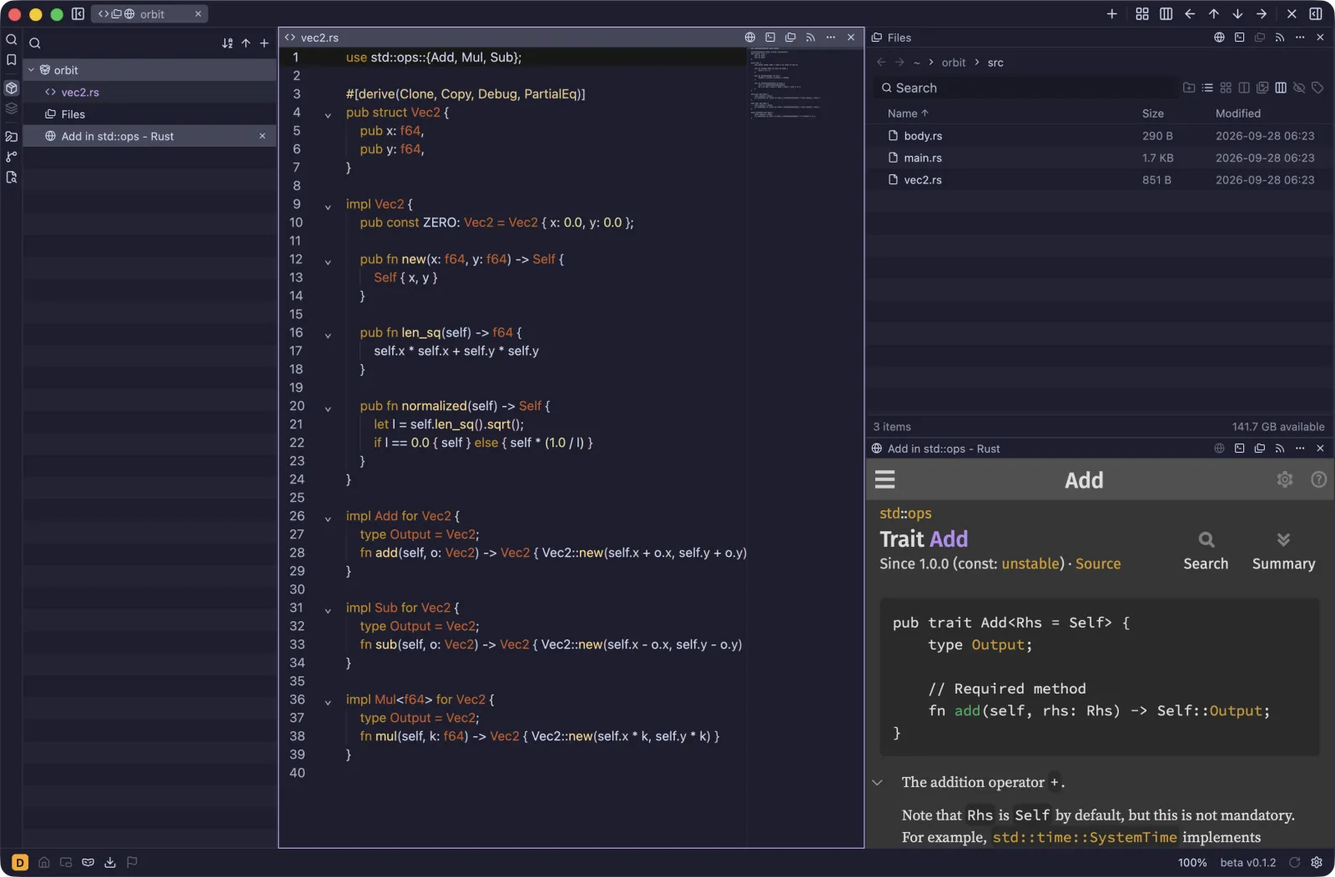
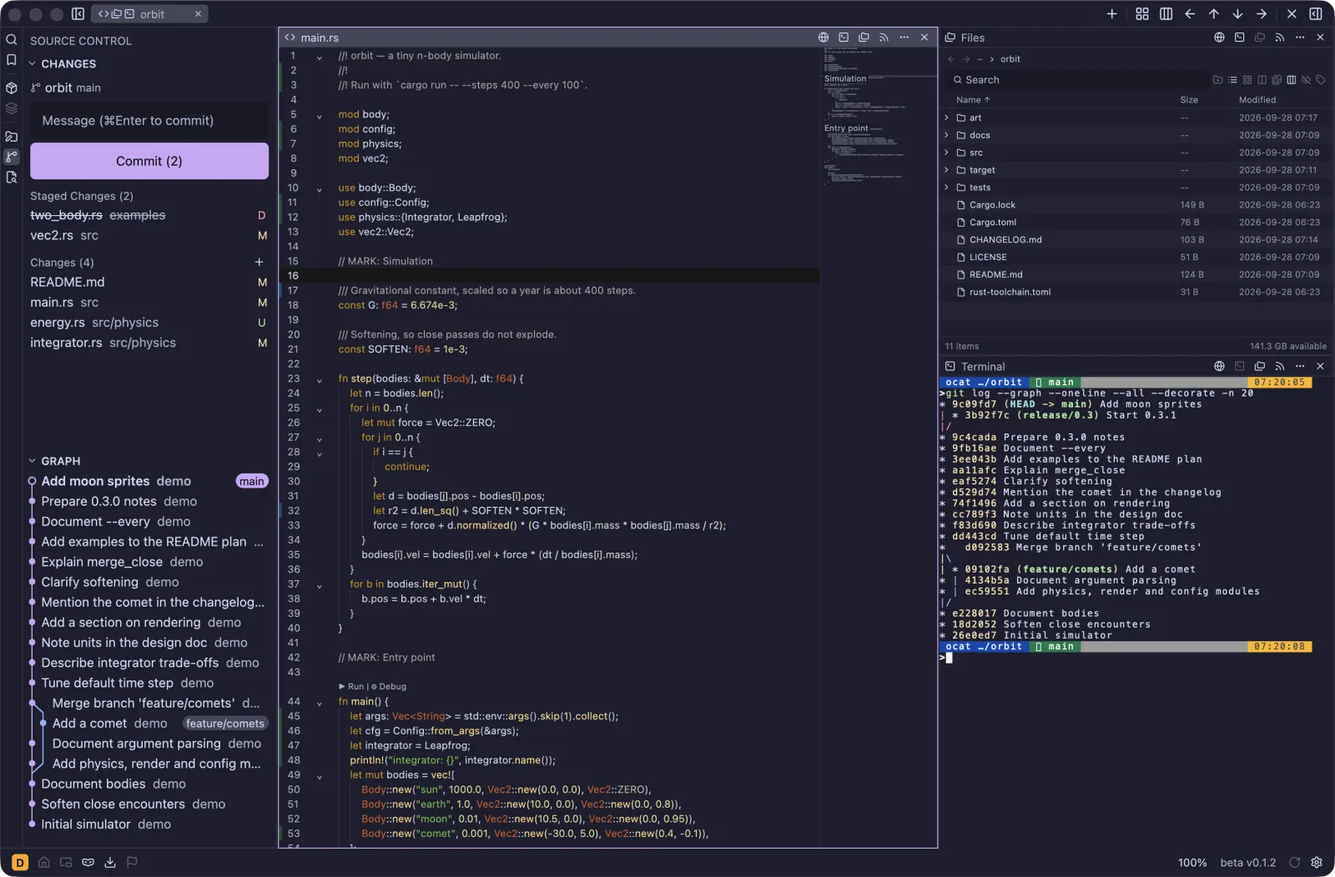
指摘を反映: 英語に日本語を混ぜない・画像と枠の間を空ける・枠の色を 1 つに・スクショを撮り直す・Zero Context Switching
- 英語のときは見出しの日本語を隠す（日英を並べるのは日本語のときだけ）
- 窓の丸い角が四角い枠にぶつからないよう、枠と画像の間に余白
- 枠線の色を --rule 1 色に統一（濃淡・生成り・橙の枠をやめた）
- スクショを撮り直し: 中身を増やしたデモで空白を減らし、エディタ・ターミナルは 80%、
  ブラウザは Wikipedia、サイドバーはファイルツリー / ソース管理で埋める
- 表紙に謳い文句「Zero Context Switching」（訳さない）と一言、奥付にも。<title> と og も

diff --git a/index.html b/index.html
@@ -5,12 +5,12 @@
 <meta charset="utf-8">
 <meta name="viewport" content="width=device-width, initial-scale=1">
 <meta name="color-scheme" content="dark">
-<title>dopamine — a macOS browser with panes, a terminal, files and an editor</title>
-<meta name="description" content="A macOS browser that is also a terminal, a file manager and a code editor — split one window into all of them and keep them on screen together.">
+<title>dopamine — Zero Context Switching</title>
+<meta name="description" content="Zero Context Switching. A browser, a terminal, a file manager and a code editor in one macOS window. Split it into panes, keep everything on screen, and stop switching apps.">
 <link rel="icon" href="./assets/favicon.png" sizes="64x64">
 <link rel="apple-touch-icon" href="./assets/apple-touch-icon.png">
-<meta property="og:title" content="dopamine">
-<meta property="og:description" content="A macOS browser that is also a terminal, a file manager and a code editor — split one window into all of them and keep them on screen together.">
+<meta property="og:title" content="dopamine — Zero Context Switching">
+<meta property="og:description" content="A browser, a terminal, a file manager and a code editor in one macOS window. Split it into panes, keep everything on screen, and stop switching apps.">
 <meta property="og:image" content="https://route23.github.io/dopamine-releases/assets/shots/workspace.webp">
 <meta property="og:url" content="https://route23.github.io/dopamine-releases/">
 <meta property="og:type" content="website">
@@ -35,7 +35,9 @@
     <img class="mast__icon" src="./assets/dopamine.png" width="512" height="512" alt="">
     <h1 class="wordmark">dopamine</h1>
     <p class="mast__url">route23.github.io/dopamine-releases</p>
-    <p class="mast__tagline" data-i18n="tagline">A macOS browser that is also a terminal, a file manager and a code editor — split one window into all of them and keep them on screen together.</p>
+    <p class="slogan">Zero Context Switching</p>
+    <p class="slogan__sub" data-i18n="slogan.sub">Everything you work with, side by side, in one window.</p>
+    <p class="mast__tagline" data-i18n="tagline">A browser, a terminal, a file manager and a code editor in one macOS window. Split it into panes, keep everything on screen, and stop switching apps.</p>
     <p class="mast__spec" data-i18n="spec">Apple Silicon · macOS 14+ · 33 themes · 12 languages · no account</p>
     <!--
       ダウンロードリンクは **ここに書いてある状態で既に動く**。
@@ -52,8 +54,8 @@
   <section id="screens" class="block">
     <h2 class="bi"><span lang="ja">画面</span><span class="bi__sep">—</span><span lang="en">SCREENS</span></h2>
     <p class="lead" data-i18n="screens.lead">Every picture below is the app as it ships — no mock-ups.</p>
-    <figure class="shot shot--big"><button type="button" class="shot__zoom" data-full="./assets/shots/workspace.webp" aria-label="Enlarge"><img src="./assets/shots/workspace.webp" width="2400" height="1577" loading="eager" decoding="async" alt="One window, four panes: a web page, the editor with git marks and a Run lens, a terminal, and Files." data-i18n-alt="shot.workspace"></button><figcaption><span data-i18n="shot.workspace">One window, four panes: a web page, the editor with git marks and a Run lens, a terminal, and Files.</span></figcaption></figure>
-    <div class="shots"><figure class="shot"><button type="button" class="shot__zoom" data-full="./assets/shots/source-control.webp" aria-label="Enlarge"><img src="./assets/shots/source-control.webp" width="2400" height="1577" loading="lazy" decoding="async" alt="Source control in the sidebar: changes, a commit box, and the branch graph." data-i18n-alt="shot.source-control"></button><figcaption><span data-i18n="shot.source-control">Source control in the sidebar: changes, a commit box, and the branch graph.</span></figcaption></figure><figure class="shot"><button type="button" class="shot__zoom" data-full="./assets/shots/diff.webp" aria-label="Enlarge"><img src="./assets/shots/diff.webp" width="2400" height="1577" loading="lazy" decoding="async" alt="Diff pane, side by side, with the file’s line numbers and unchanged lines folded away." data-i18n-alt="shot.diff"></button><figcaption><span data-i18n="shot.diff">Diff pane, side by side, with the file’s line numbers and unchanged lines folded away.</span></figcaption></figure><figure class="shot"><button type="button" class="shot__zoom" data-full="./assets/shots/files-rss.webp" aria-label="Enlarge"><img src="./assets/shots/files-rss.webp" width="2400" height="1577" loading="lazy" decoding="async" alt="Files in gallery view next to an RSS pane." data-i18n-alt="shot.files-rss"></button><figcaption><span data-i18n="shot.files-rss">Files in gallery view next to an RSS pane.</span></figcaption></figure><figure class="shot"><button type="button" class="shot__zoom" data-full="./assets/shots/settings-themes.webp" aria-label="Enlarge"><img src="./assets/shots/settings-themes.webp" width="1640" height="1200" loading="lazy" decoding="async" alt="Settings live in their own window. 33 themes, picked from pictures." data-i18n-alt="shot.settings-themes"></button><figcaption><span data-i18n="shot.settings-themes">Settings live in their own window. 33 themes, picked from pictures.</span></figcaption></figure><figure class="shot"><button type="button" class="shot__zoom" data-full="./assets/shots/settings-editor.webp" aria-label="Enlarge"><img src="./assets/shots/settings-editor.webp" width="1640" height="1200" loading="lazy" decoding="async" alt="Every setting is a card with its settings.json key and a live sample." data-i18n-alt="shot.settings-editor"></button><figcaption><span data-i18n="shot.settings-editor">Every setting is a card with its settings.json key and a live sample.</span></figcaption></figure><figure class="shot"><button type="button" class="shot__zoom" data-full="./assets/shots/settings-filter.webp" aria-label="Enlarge"><img src="./assets/shots/settings-filter.webp" width="1640" height="1200" loading="lazy" decoding="async" alt="Filter across every section; pictures instead of dropdowns." data-i18n-alt="shot.settings-filter"></button><figcaption><span data-i18n="shot.settings-filter">Filter across every section; pictures instead of dropdowns.</span></figcaption></figure></div>
+    <figure class="shot shot--big"><button type="button" class="shot__zoom" data-full="./assets/shots/workspace.webp" aria-label="Enlarge"><img src="./assets/shots/workspace.webp" width="2400" height="1577" loading="eager" decoding="async" alt="One window, no switching: the file tree, a web page, a terminal, the editor with git marks and a Run lens, and Files." data-i18n-alt="shot.workspace"></button><figcaption><span data-i18n="shot.workspace">One window, no switching: the file tree, a web page, a terminal, the editor with git marks and a Run lens, and Files.</span></figcaption></figure>
+    <div class="shots"><figure class="shot"><button type="button" class="shot__zoom" data-full="./assets/shots/source-control.webp" aria-label="Enlarge"><img src="./assets/shots/source-control.webp" width="2400" height="1577" loading="lazy" decoding="async" alt="Source control in the sidebar: staged and unstaged changes, a commit box, and the branch graph — next to the terminal’s git log." data-i18n-alt="shot.source-control"></button><figcaption><span data-i18n="shot.source-control">Source control in the sidebar: staged and unstaged changes, a commit box, and the branch graph — next to the terminal’s git log.</span></figcaption></figure><figure class="shot"><button type="button" class="shot__zoom" data-full="./assets/shots/diff.webp" aria-label="Enlarge"><img src="./assets/shots/diff.webp" width="2400" height="1577" loading="lazy" decoding="async" alt="Diff pane, side by side: the file’s line numbers, word-level changes, and unchanged lines folded away." data-i18n-alt="shot.diff"></button><figcaption><span data-i18n="shot.diff">Diff pane, side by side: the file’s line numbers, word-level changes, and unchanged lines folded away.</span></figcaption></figure><figure class="shot"><button type="button" class="shot__zoom" data-full="./assets/shots/files-rss.webp" aria-label="Enlarge"><img src="./assets/shots/files-rss.webp" width="2400" height="1577" loading="lazy" decoding="async" alt="The file tree, Files in gallery view, and an RSS pane reading two feeds." data-i18n-alt="shot.files-rss"></button><figcaption><span data-i18n="shot.files-rss">The file tree, Files in gallery view, and an RSS pane reading two feeds.</span></figcaption></figure><figure class="shot"><button type="button" class="shot__zoom" data-full="./assets/shots/settings-themes.webp" aria-label="Enlarge"><img src="./assets/shots/settings-themes.webp" width="1640" height="1200" loading="lazy" decoding="async" alt="Settings live in their own window. 33 themes, picked from pictures." data-i18n-alt="shot.settings-themes"></button><figcaption><span data-i18n="shot.settings-themes">Settings live in their own window. 33 themes, picked from pictures.</span></figcaption></figure><figure class="shot"><button type="button" class="shot__zoom" data-full="./assets/shots/settings-editor.webp" aria-label="Enlarge"><img src="./assets/shots/settings-editor.webp" width="1640" height="1200" loading="lazy" decoding="async" alt="Every setting is a card with its settings.json key and a live sample." data-i18n-alt="shot.settings-editor"></button><figcaption><span data-i18n="shot.settings-editor">Every setting is a card with its settings.json key and a live sample.</span></figcaption></figure><figure class="shot"><button type="button" class="shot__zoom" data-full="./assets/shots/settings-filter.webp" aria-label="Enlarge"><img src="./assets/shots/settings-filter.webp" width="1640" height="1200" loading="lazy" decoding="async" alt="Filter across every section; pictures instead of dropdowns." data-i18n-alt="shot.settings-filter"></button><figcaption><span data-i18n="shot.settings-filter">Filter across every section; pictures instead of dropdowns.</span></figcaption></figure></div>
     <h3 class="bi bi--sub"><span lang="ja">テーマ</span><span class="bi__sep">—</span><span lang="en">THEMES</span></h3>
     <div class="themes"><figure class="theme"><button type="button" class="shot__zoom" data-full="./assets/shots/theme-catppuccin-mocha.webp" aria-label="Enlarge"><img src="./assets/shots/theme-catppuccin-mocha.webp" width="1600" height="1051" loading="lazy" decoding="async" alt="Catppuccin Mocha"></button><figcaption>Catppuccin Mocha</figcaption></figure><figure class="theme"><button type="button" class="shot__zoom" data-full="./assets/shots/theme-everforest-dark.webp" aria-label="Enlarge"><img src="./assets/shots/theme-everforest-dark.webp" width="1600" height="1051" loading="lazy" decoding="async" alt="Everforest Dark"></button><figcaption>Everforest Dark</figcaption></figure><figure class="theme"><button type="button" class="shot__zoom" data-full="./assets/shots/theme-monokai-pro.webp" aria-label="Enlarge"><img src="./assets/shots/theme-monokai-pro.webp" width="1600" height="1051" loading="lazy" decoding="async" alt="Monokai Pro"></button><figcaption>Monokai Pro</figcaption></figure><figure class="theme"><button type="button" class="shot__zoom" data-full="./assets/shots/theme-solarized-light.webp" aria-label="Enlarge"><img src="./assets/shots/theme-solarized-light.webp" width="1600" height="1051" loading="lazy" decoding="async" alt="Solarized Light"></button><figcaption>Solarized Light</figcaption></figure></div>
   </section>
@@ -93,6 +95,7 @@
 
   <footer class="colophon">
     <p class="colophon__mark">dopamine <span>N°</span> 0.1</p>
+    <p class="colophon__slogan">Zero Context Switching</p>
     <div class="colophon__row">
       <div class="barcode" aria-hidden="true"><span></span><code>3 0 1 2 3 0 0 0 5 1 3</code></div>
       <nav class="colophon__links">

diff --git a/assets/styles.css b/assets/styles.css
@@ -23,9 +23,9 @@
   /* 本体の palette.rs が明記しているとおり **黒**。白ではない。 */
   --on-accent:  #000000;
 
-  /* 罫線は生成りを薄めたもの（Rhodia の白い罫の代わり）。 */
-  --rule: color-mix(in srgb, var(--fg) 55%, transparent);
-  --rule-soft: color-mix(in srgb, var(--fg) 18%, transparent);
+  /* 罫線は**この 1 色だけ**（生成りを薄めたもの / Rhodia の白い罫の代わり）。
+   * 枠・表の罫・区切りは全部これ。濃淡を混ぜない。 */
+  --rule: color-mix(in srgb, var(--fg) 40%, transparent);
   /* 方眼。背景の飾りにだけ使う。 */
   --grid: color-mix(in srgb, var(--fg) 4%, transparent);
 
@@ -104,7 +104,16 @@ a:hover { text-decoration-color: var(--accent); }
   text-transform: uppercase;
 }
 .mast__url { margin: 6px 0 0; font: 500 clamp(15px, 2.2vw, 19px)/1.3 var(--display); letter-spacing: .02em; }
-.mast__tagline { max-width: 44em; margin: 34px auto 0; font-size: clamp(16px, 2vw, 19px); }
+/* 謳い文句（Zero Context Switching）。**訳さない** —— 名前と同じく英語のまま出す。 */
+.slogan {
+  margin: 34px 0 0;
+  font: 800 clamp(26px, 4.6vw, 46px)/1.1 var(--display);
+  letter-spacing: .08em;
+  text-transform: uppercase;
+  color: var(--accent);
+}
+.slogan__sub { margin: 10px 0 0; font: 600 clamp(15px, 1.9vw, 18px)/1.4 var(--display); letter-spacing: .04em; }
+.mast__tagline { max-width: 44em; margin: 22px auto 0; font-size: clamp(16px, 2vw, 18px); color: var(--muted-fg); }
 .mast__spec {
   margin: 10px 0 0;
   font: 600 13px/1.5 var(--display);
@@ -121,7 +130,7 @@ html[lang="ja"] .mast__spec { letter-spacing: .06em; }
   right: clamp(0px, 6vw, 80px);
   width: 78px;
   height: 78px;
-  border: 2px solid var(--fg);
+  border: 2px solid var(--rule);
   border-radius: 50%;
   display: grid;
   place-content: center;
@@ -164,6 +173,8 @@ html[lang="ja"] .btn { letter-spacing: .04em; }
   text-transform: uppercase;
 }
 .bi__sep { margin-inline: .5em; color: var(--muted-fg); }
+/* 日英を並べるのは**日本語のときだけ**。英語のページに日本語を混ぜない（JS 無効でも英語だけ）。 */
+html:not([lang="ja"]) .bi > [lang="ja"], html:not([lang="ja"]) .bi > .bi__sep { display: none; }
 .bi--sub { font-size: 17px; margin-top: 56px; }
 
 .lead { text-align: center; color: var(--muted-fg); margin: 0 0 28px; }
@@ -179,12 +190,14 @@ html[lang="ja"] .btn { letter-spacing: .04em; }
 /* ── 画面 ── */
 
 .shot, .theme { margin: 0; }
+/* 窓の角は丸い（macOS）ので、**枠と画像の間を空ける** —— 四角い枠に丸い角が
+ * ぶつかると、欠けたように見える。 */
 .shot__zoom {
   display: block;
   width: 100%;
-  padding: 0;
+  padding: clamp(8px, 1.4vw, 14px);
   border: 1px solid var(--rule);
-  background: var(--recessed);
+  background: var(--window-bg);
   cursor: zoom-in;
 }
 .shot__zoom img { display: block; width: 100%; }
@@ -199,6 +212,7 @@ html[lang="ja"] .btn { letter-spacing: .04em; }
 }
 
 .themes { display: grid; grid-template-columns: repeat(4, 1fr); gap: 16px; }
+.themes .shot__zoom { padding: 8px; }
 @media (max-width: 760px) { .themes { grid-template-columns: repeat(2, 1fr); } }
 .theme figcaption {
   margin-top: 8px;
@@ -224,7 +238,7 @@ html[lang="ja"] .btn { letter-spacing: .04em; }
   padding: 12px;
   border-left: 1px solid var(--rule);
   border-right: 1px solid var(--rule);
-  border-top: 1px solid var(--rule-soft);
+  border-top: 1px solid var(--rule);
 }
 .spec .no { width: 3.4em; font: 800 16px/1.4 var(--display); text-align: center; }
 .spec .area { width: 12em; font: 700 15px/1.4 var(--display); letter-spacing: .04em; text-transform: uppercase; }
@@ -260,11 +274,11 @@ html[lang="ja"] .box h3 { letter-spacing: .02em; }
 .small { font-size: 14px; color: var(--muted-fg); }
 .box .small { margin: 10px 0 0; }
 
-.cmd { display: flex; align-items: stretch; border: 1px solid var(--rule-soft); background: var(--recessed); }
+.cmd { display: flex; align-items: stretch; border: 1px solid var(--rule); background: var(--recessed); }
 .cmd pre { margin: 0; padding: 12px 14px; flex: 1; font: 14px/1.5 var(--mono); overflow-wrap: anywhere; white-space: pre-wrap; }
 .cmd__copy {
   border: 0;
-  border-left: 1px solid var(--rule-soft);
+  border-left: 1px solid var(--rule);
   background: transparent;
   color: var(--fg);
   font: 600 12px/1 var(--display);
@@ -276,7 +290,7 @@ html[lang="ja"] .box h3 { letter-spacing: .02em; }
 .cmd__copy:hover { color: var(--accent); }
 
 .req { margin-top: 20px; width: 100%; border-collapse: collapse; border: 1px solid var(--rule); background: var(--window-bg); }
-.req td { padding: 10px 12px; border-top: 1px solid var(--rule-soft); }
+.req td { padding: 10px 12px; border-top: 1px solid var(--rule); }
 .req .no { width: 3.4em; text-align: center; font: 800 15px/1 var(--display); border-right: 1px solid var(--rule); }
 
 /* ── 奥付（Rhodia の裏表紙の下端）── */
@@ -305,8 +319,10 @@ html[lang="ja"] .box h3 { letter-spacing: .02em; }
   min-width: 220px;
   background: var(--window-bg);
 }
+.colophon__slogan { margin: -10px 0 22px; font: 700 14px/1 var(--display); letter-spacing: .2em; text-transform: uppercase; color: var(--accent); }
 .colophon__made { margin: 22px 0 0; font: 700 12px/1.4 var(--display); letter-spacing: .16em; text-transform: uppercase; color: var(--muted-fg); }
-html[lang="ja"] .colophon__made { letter-spacing: .06em; }
+html[lang="ja"] .colophon__slogan { margin: -10px 0 22px; font: 700 14px/1 var(--display); letter-spacing: .2em; text-transform: uppercase; color: var(--accent); }
+.colophon__made { letter-spacing: .06em; }
 
 /* ── 拡大 ── */
 
@@ -333,19 +349,19 @@ html[lang="ja"] .colophon__made { letter-spacing: .06em; }
 .sheet--narrow { max-width: 860px; }
 .page-lead { text-align: center; color: var(--muted-fg); margin: 0 0 28px; }
 .releases { list-style: none; padding: 0; margin: 0; border: 1px solid var(--rule); background: var(--window-bg); }
-.releases > li { padding: 20px; border-top: 1px solid var(--rule-soft); }
+.releases > li { padding: 20px; border-top: 1px solid var(--rule); }
 .releases > li:first-child { border-top: 0; }
 .release__head { display: flex; flex-wrap: wrap; align-items: baseline; gap: .6em; }
 .release__head h2 { margin: 0; font: 800 22px/1.2 var(--display); letter-spacing: .04em; }
 .release__head time { color: var(--muted-fg); font: 500 13px/1 var(--mono); }
 .release__notes { margin-top: 1em; font-size: 15px; }
 .release__notes h1, .release__notes h2, .release__notes h3 { font: 700 15px/1.3 var(--display); letter-spacing: .06em; text-transform: uppercase; margin: 1.2em 0 .4em; }
-.release__notes pre { padding: 12px 14px; background: var(--recessed); border: 1px solid var(--rule-soft); font: 13px/1.5 var(--mono); }
+.release__notes pre { padding: 12px 14px; background: var(--recessed); border: 1px solid var(--rule); font: 13px/1.5 var(--mono); }
 .release__notes code { font-family: var(--mono); font-size: .9em; }
 .release__notes :not(pre) > code { background: var(--recessed); padding: 1px 5px; }
 .notes-raw { white-space: pre-wrap; }
 .release__dl { display: inline-block; margin-top: 1em; font-size: 14px; }
-.chip { display: inline-block; padding: 2px 8px; border: 1px solid var(--accent); color: var(--accent); font: 700 11px/1.4 var(--display); letter-spacing: .1em; text-transform: uppercase; }
+.chip { display: inline-block; padding: 2px 8px; border: 1px solid var(--rule); color: var(--accent); font: 700 11px/1.4 var(--display); letter-spacing: .1em; text-transform: uppercase; }
 .muted { color: var(--muted-fg); }
 
 @media (prefers-reduced-motion: reduce) {

diff --git a/assets/i18n.js b/assets/i18n.js
@@ -1,7 +1,8 @@
 /* 生成物（tools/gen.py）。手で直さない。文言は tools/content.py。 */
 window.DOPAMINE_I18N = {
  "en": {
-  "tagline": "A macOS browser that is also a terminal, a file manager and a code editor — split one window into all of them and keep them on screen together.",
+  "tagline": "A browser, a terminal, a file manager and a code editor in one macOS window. Split it into panes, keep everything on screen, and stop switching apps.",
+  "slogan.sub": "Everything you work with, side by side, in one window.",
   "spec": "Apple Silicon · macOS 14+ · 33 themes · 12 languages · no account",
   "download": "Download for macOS",
   "degraded": "Couldn’t load release details from GitHub right now — the download link above still works.",
@@ -36,10 +37,10 @@ window.DOPAMINE_I18N = {
   "rel.onGithub": "See all releases on GitHub",
   "rel.pre": "pre-release",
   "home": "Home",
-  "shot.workspace": "One window, four panes: a web page, the editor with git marks and a Run lens, a terminal, and Files.",
-  "shot.source-control": "Source control in the sidebar: changes, a commit box, and the branch graph.",
-  "shot.diff": "Diff pane, side by side, with the file’s line numbers and unchanged lines folded away.",
-  "shot.files-rss": "Files in gallery view next to an RSS pane.",
+  "shot.workspace": "One window, no switching: the file tree, a web page, a terminal, the editor with git marks and a Run lens, and Files.",
+  "shot.source-control": "Source control in the sidebar: staged and unstaged changes, a commit box, and the branch graph — next to the terminal’s git log.",
+  "shot.diff": "Diff pane, side by side: the file’s line numbers, word-level changes, and unchanged lines folded away.",
+  "shot.files-rss": "The file tree, Files in gallery view, and an RSS pane reading two feeds.",
   "shot.settings-themes": "Settings live in their own window. 33 themes, picked from pictures.",
   "shot.settings-editor": "Every setting is a card with its settings.json key and a live sample.",
   "shot.settings-filter": "Filter across every section; pictures instead of dropdowns.",
@@ -136,10 +137,11 @@ window.DOPAMINE_I18N = {
   "f.14.3": "Filter across sections; options chosen from pictures",
   "f.14.4": "Each card shows its settings.json key and default",
   "f.14.5": "Keep settings.json in iCloud or Dropbox; live reload",
-  "doc.title": "dopamine — a macOS browser with panes, a terminal, files and an editor"
+  "doc.title": "dopamine — Zero Context Switching"
  },
  "ja": {
-  "tagline": "ブラウザで、ターミナルで、ファイルマネージャーで、コードエディタ。1 つの窓をペインに割って、全部を同時に並べておける macOS のブラウザ。",
+  "tagline": "ブラウザ、ターミナル、ファイルマネージャー、コードエディタを 1 つの macOS の窓に。ペインに割って全部を並べておけば、もうアプリを行き来しなくていい。",
+  "slogan.sub": "仕事の道具を全部、1 つの窓に並べて。",
   "spec": "Apple Silicon · macOS 14 以降 · テーマ 33 種 · 12 言語 · アカウント不要",
   "download": "macOS 版をダウンロード",
   "degraded": "GitHub からリリースの情報を読めませんでした。上のダウンロードボタンはそのまま使えます。",
@@ -174,10 +176,10 @@ window.DOPAMINE_I18N = {
   "rel.onGithub": "GitHub ですべてのリリースを見る",
   "rel.pre": "プレリリース",
   "home": "ホーム",
-  "shot.workspace": "1 つの窓に 4 つのペイン。Web ページ、git の印と Run のレンズが付いたエディタ、ターミナル、Files。",
-  "shot.source-control": "サイドバーのソース管理。変更の一覧、コミット欄、枝のグラフ。",
-  "shot.diff": "差分ペイン。左右に並べ、ファイルの行番号を出し、変わっていない行は畳む。",
-  "shot.files-rss": "ギャラリー表示の Files と、RSS ペイン。",
+  "shot.workspace": "窓は 1 つ、行き来はゼロ。ファイルツリー、Web ページ、ターミナル、git の印と Run のレンズが付いたエディタ、Files。",
+  "shot.source-control": "サイドバーのソース管理。ステージ済みと未ステージの変更、コミット欄、枝のグラフ。横のターミナルには git log。",
+  "shot.diff": "差分ペイン。左右に並べ、ファイルの行番号と語単位の差を出し、変わっていない行は畳む。",
+  "shot.files-rss": "ファイルツリー、ギャラリー表示の Files、2 つのフィードを読む RSS ペイン。",
   "shot.settings-themes": "設定は別の窓。テーマ 33 種を絵から選ぶ。",
   "shot.settings-editor": "設定は 1 つずつカードで、settings.json の鍵と実寸の見本付き。",
   "shot.settings-filter": "全区分をまたいで絞り込み。選択肢は絵で選ぶ。",
@@ -274,6 +276,6 @@ window.DOPAMINE_I18N = {
   "f.14.3": "区分をまたいで絞り込み、選択肢は絵で選ぶ",
   "f.14.4": "カードごとに settings.json の鍵と既定値を表示",
   "f.14.5": "settings.json を iCloud や Dropbox に置けて、書き換えは即反映",
-  "doc.title": "dopamine — ペインで割れる macOS のブラウザ（ターミナル・Files・エディタ入り）"
+  "doc.title": "dopamine — Zero Context Switching（コンテキストスイッチ、ゼロ）"
  }
 };

diff --git a/tools/content.py b/tools/content.py
@@ -7,8 +7,9 @@ HTML は英語だけで完結し（JS 無効でも読める）、i18n.js が ja 
 
 # (key, en, ja)
 UI = [
-    ("tagline", "A macOS browser that is also a terminal, a file manager and a code editor — split one window into all of them and keep them on screen together.",
-                "ブラウザで、ターミナルで、ファイルマネージャーで、コードエディタ。1 つの窓をペインに割って、全部を同時に並べておける macOS のブラウザ。"),
+    ("tagline", "A browser, a terminal, a file manager and a code editor in one macOS window. Split it into panes, keep everything on screen, and stop switching apps.",
+                "ブラウザ、ターミナル、ファイルマネージャー、コードエディタを 1 つの macOS の窓に。ペインに割って全部を並べておけば、もうアプリを行き来しなくていい。"),
+    ("slogan.sub", "Everything you work with, side by side, in one window.", "仕事の道具を全部、1 つの窓に並べて。"),
     ("spec", "Apple Silicon · macOS 14+ · 33 themes · 12 languages · no account",
              "Apple Silicon · macOS 14 以降 · テーマ 33 種 · 12 言語 · アカウント不要"),
     ("download", "Download for macOS", "macOS 版をダウンロード"),
@@ -60,13 +61,13 @@ HEADS = [
 
 # スクショ: (file, en caption, ja caption, big?)
 SHOTS = [
-    ("workspace", "One window, four panes: a web page, the editor with git marks and a Run lens, a terminal, and Files.",
-                  "1 つの窓に 4 つのペイン。Web ページ、git の印と Run のレンズが付いたエディタ、ターミナル、Files。", True),
-    ("source-control", "Source control in the sidebar: changes, a commit box, and the branch graph.",
-                       "サイドバーのソース管理。変更の一覧、コミット欄、枝のグラフ。", False),
-    ("diff", "Diff pane, side by side, with the file’s line numbers and unchanged lines folded away.",
-             "差分ペイン。左右に並べ、ファイルの行番号を出し、変わっていない行は畳む。", False),
-    ("files-rss", "Files in gallery view next to an RSS pane.", "ギャラリー表示の Files と、RSS ペイン。", False),
+    ("workspace", "One window, no switching: the file tree, a web page, a terminal, the editor with git marks and a Run lens, and Files.",
+                  "窓は 1 つ、行き来はゼロ。ファイルツリー、Web ページ、ターミナル、git の印と Run のレンズが付いたエディタ、Files。", True),
+    ("source-control", "Source control in the sidebar: staged and unstaged changes, a commit box, and the branch graph — next to the terminal’s git log.",
+                       "サイドバーのソース管理。ステージ済みと未ステージの変更、コミット欄、枝のグラフ。横のターミナルには git log。", False),
+    ("diff", "Diff pane, side by side: the file’s line numbers, word-level changes, and unchanged lines folded away.",
+             "差分ペイン。左右に並べ、ファイルの行番号と語単位の差を出し、変わっていない行は畳む。", False),
+    ("files-rss", "The file tree, Files in gallery view, and an RSS pane reading two feeds.", "ファイルツリー、ギャラリー表示の Files、2 つのフィードを読む RSS ペイン。", False),
     ("settings-themes", "Settings live in their own window. 33 themes, picked from pictures.", "設定は別の窓。テーマ 33 種を絵から選ぶ。", False),
     ("settings-editor", "Every setting is a card with its settings.json key and a live sample.", "設定は 1 つずつカードで、settings.json の鍵と実寸の見本付き。", False),
     ("settings-filter", "Filter across every section; pictures instead of dropdowns.", "全区分をまたいで絞り込み。選択肢は絵で選ぶ。", False),

diff --git a/tools/gen.py b/tools/gen.py
@@ -27,8 +27,8 @@ for i, (area_en, area_ja, items) in enumerate(FEATURES, 1):
     en[f"fa.{i}"], ja[f"fa.{i}"] = area_en, area_ja
     for j, (a, b) in enumerate(items, 1):
         en[f"f.{i}.{j}"], ja[f"f.{i}.{j}"] = a, b
-en["doc.title"] = "dopamine — a macOS browser with panes, a terminal, files and an editor"
-ja["doc.title"] = "dopamine — ペインで割れる macOS のブラウザ（ターミナル・Files・エディタ入り）"
+en["doc.title"] = "dopamine — Zero Context Switching"
+ja["doc.title"] = "dopamine — Zero Context Switching（コンテキストスイッチ、ゼロ）"
 
 total = sum(len(items) for _, _, items in FEATURES)
 
@@ -82,10 +82,10 @@ page = f"""<!DOCTYPE html>
 <meta name="viewport" content="width=device-width, initial-scale=1">
 <meta name="color-scheme" content="dark">
 <title>{e(en["doc.title"])}</title>
-<meta name="description" content="{e(en["tagline"])}">
+<meta name="description" content="Zero Context Switching. {e(en["tagline"])}">
 <link rel="icon" href="./assets/favicon.png" sizes="64x64">
 <link rel="apple-touch-icon" href="./assets/apple-touch-icon.png">
-<meta property="og:title" content="dopamine">
+<meta property="og:title" content="dopamine — Zero Context Switching">
 <meta property="og:description" content="{e(en["tagline"])}">
 <meta property="og:image" content="https://route23.github.io/dopamine-releases/assets/shots/workspace.webp">
 <meta property="og:url" content="https://route23.github.io/dopamine-releases/">
@@ -111,6 +111,8 @@ page = f"""<!DOCTYPE html>
     <img class="mast__icon" src="./assets/dopamine.png" width="512" height="512" alt="">
     <h1 class="wordmark">dopamine</h1>
     <p class="mast__url">route23.github.io/dopamine-releases</p>
+    <p class="slogan">Zero Context Switching</p>
+    {t("slogan.sub", "p", "slogan__sub")}
     {t("tagline", "p", "mast__tagline")}
     {t("spec", "p", "mast__spec")}
     <!--
@@ -169,6 +171,7 @@ page = f"""<!DOCTYPE html>
 
   <footer class="colophon">
     <p class="colophon__mark">dopamine <span>N°</span> 0.1</p>
+    <p class="colophon__slogan">Zero Context Switching</p>
     <div class="colophon__row">
       <div class="barcode" aria-hidden="true"><span></span><code>3 0 1 2 3 0 0 0 5 1 3</code></div>
       <nav class="colophon__links">
